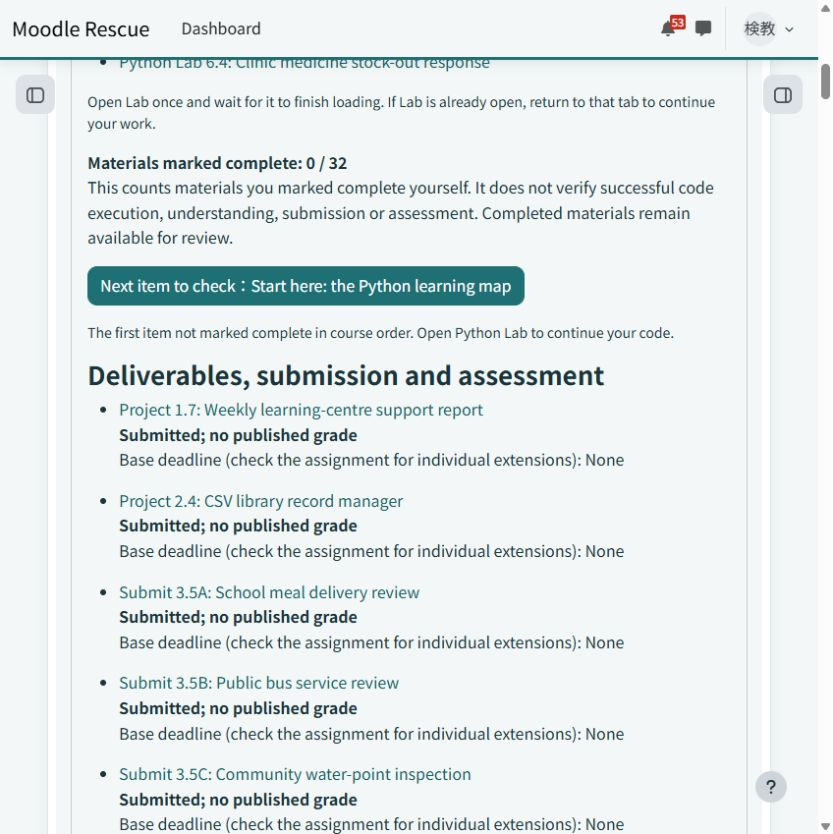
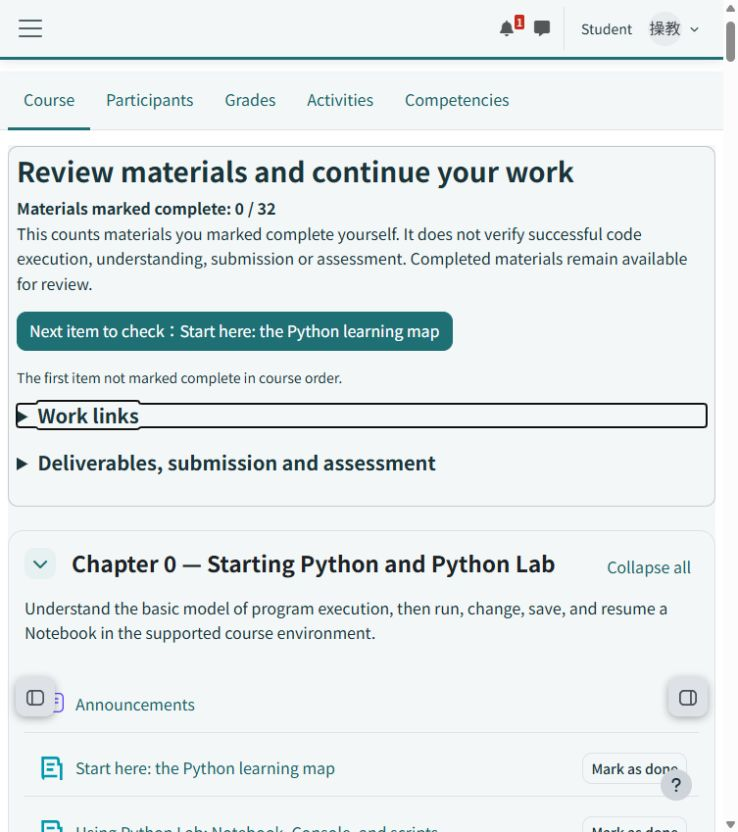
Prepare 0.1.0-alpha7 Marketplace release

diff --git a/version.php b/version.php
@@ -25,8 +25,8 @@
 defined('MOODLE_INTERNAL') || die();
 
 $plugin->component = 'format_duallearning';
-$plugin->version = 2026091900;
+$plugin->version = 2026091901;
 $plugin->requires = 2026042000;
 $plugin->dependencies = ['format_topics' => ANY_VERSION];
 $plugin->maturity = MATURITY_ALPHA;
-$plugin->release = '0.1.0-alpha6';
+$plugin->release = '0.1.0-alpha7';

diff --git a/docs/MARKETPLACE_LISTING.md b/docs/MARKETPLACE_LISTING.md
@@ -1,13 +1,13 @@
 # Moodle Marketplace listing
 
-Copy-ready metadata for the alpha6 update to the existing format_duallearning submission.
+Copy-ready metadata for the alpha7 update to the existing format_duallearning submission.
 
 ## Identity
 
 - Name: Dual Learning
 - Component: `format_duallearning`
 - Plugin type: Course format
-- Version: `0.1.0-alpha6` (`2026091900`)
+- Version: `0.1.0-alpha7` (`2026091901`)
 - Maturity: Alpha
 - Supported Moodle version: Moodle 5.2
 - Licence: GNU GPL v3 or later
@@ -25,7 +25,7 @@ For authors, the format provides an editable unit outline suited to the chosen a
 
 Actions remain visible while optional hints can be opened when needed. Authors do not need to fill in an additional design questionnaire or choose an experience level. Visibility information and reminders to save form changes remain visible.
 
-For learners, a focused overview above standard Topics sections shows the next accessible incomplete activity with completion tracking, work links, materials progress, and assignment state. Teacher-guided mode also includes accessible question forums. Materials marked complete, assignment submissions, and published grades are distinguished. Standard activity pages remain the place for detailed grades, feedback, individual extensions, and group submissions.
+For learners, a focused overview above standard Topics sections shows the next accessible incomplete activity with completion tracking, work links, materials progress, and assignment state. Progress and the next learning action appear before work links and assignments. Lists of up to five entries start expanded; longer lists can be opened when needed. Teacher-guided mode also includes accessible question forums. Materials marked complete, assignment submissions, and published grades are distinguished. Standard activity pages remain the place for detailed grades, feedback, individual extensions, and group submissions.
 
 Changing the learning mode changes the overview; it does not automatically adapt the teaching content to a different learning design. It does not rewrite activities, completion records, submissions, grades, deadlines, or restrictions.
 
@@ -46,20 +46,21 @@ The plugin stores its course-level learning-mode option. Author-created outlines
 - Source: https://github.com/ozekihiroshi/moodle-format_duallearning
 - Documentation: https://github.com/ozekihiroshi/moodle-format_duallearning#readme
 - Issues: https://github.com/ozekihiroshi/moodle-format_duallearning/issues
-- Release: https://github.com/ozekihiroshi/moodle-format_duallearning/releases/tag/v0.1.0-alpha6
+- Release: https://github.com/ozekihiroshi/moodle-format_duallearning/releases/tag/v0.1.0-alpha7
 - Branch: main
-- Tag: v0.1.0-alpha6
+- Tag: v0.1.0-alpha7
 
 ## Version release notes
 
-Fix next-activity navigation in courses containing subsections.
+Keep the next learning action visible in long courses.
 
-- Follow the displayed course order in the overview, previous/next links and activity selector, including activities inside subsections.
-- Preserve completion, visibility, availability and deletion filtering.
-- Add regression coverage for moved subsections, restricted or hidden content and flat courses.
-- Verify actual forward/backward navigation across subsections in both self-paced and teacher-guided modes.
+- Show progress and the next incomplete activity before work links and assignments.
+- Keep all accessible links in course order using keyboard-accessible disclosures. Lists of up to five entries start expanded; longer lists start collapsed.
+- Remove Python Lab-specific instructions from the generic overview in English and Japanese, including courses with non-Python external tools.
+- Add regression tests and refresh English overview screenshots.
+- Prepare a teacher authoring evaluation kit. Actual teacher usability evaluation remains pending.
 
-Moodle 5.2; Alpha maturity. No changes to course content, submissions, grades or completion records. Fixes GitHub issue #2.
+Moodle 5.2; Alpha maturity. No changes to course content, submissions, grades or completion records. Fixes GitHub issues #8 and #9.
 
 ## Screenshots
 
@@ -67,9 +68,10 @@ English screenshots now use the completed Python Foundations Self paced and
 Teacher guided courses, with separate test-unit authoring captures. See
 [files, suggested order and captions](screenshots/README.md).
 The optional Dual Learning theme supplies the visual styling; the course
-format also supports Boost. The work-link list in long courses is tracked in
-#8, and the progress screenshot is explicitly a scrolled view.
+format also supports Boost. Overview images 01 and 03 show the alpha7 layout
+using a test teacher's Student role preview. Progress figures in these captures
+are illustrative role-preview state, not evidence of a real learner's work.
 
-These files are prepared for the listing. Marketplace upload has not been
-confirmed by this documentation update. No new plugin ZIP or version is
-needed solely to replace listing screenshots.
+Upload the alpha7 ZIP to the existing submission and replace screenshot 01
+with the refreshed file. The other four primary listing images remain valid.
+Marketplace acceptance and automated review must be confirmed on the site.

diff --git a/docs/screenshots/README.md b/docs/screenshots/README.md
@@ -1,16 +1,16 @@
 # English screenshots
 
-Captured on 19 September 2026 from local Moodle 5.2 using the **optional Dual Learning theme** and the served format_duallearning 0.1.0-alpha6 source. The course format also supports Boost; these images do not represent Boost styling.
+Captured on 19 September 2026 from local Moodle 5.2 using the **optional Dual Learning theme** and the served format_duallearning source (alpha7 overview layout in images 01 and 03; alpha6 for the remaining captures). The course format also supports Boost; these images do not represent Boost styling.
 
 The learner images use the completed English Python Foundations courses, not a newly invented demonstration curriculum. Course 44 is Self paced; course 45 is Teacher guided. Interface and teaching text are English. Small Japanese initials in the navigation bar belong to synthetic test accounts. No real learner names, credentials, or private submissions are shown.
 
-Screenshots are direct browser captures. The long-course overview has not been rearranged for the images. #8 tracks its long work-link list. Images of a scrolled page are identified below. The authoring examples use a separate local test unit so that completed Python materials were not edited for this exercise.
+Screenshots are direct browser captures. Images 01 and 03 were refreshed for alpha7 after issue #8 was fixed: progress and the next action now appear before native disclosures. These two images use a test teacher’s Student role preview; their progress figures do not represent an actual learner’s work. Other images retain the earlier capture. Images of a scrolled page are identified below. The authoring examples use a separate local test unit so that completed Python materials were not edited for this exercise.
 
 | File | Suggested caption and context |
 | --- | --- |
-| `01-self-paced-progress.jpg` | Self-paced Python: the next material, manual completion and assignment state. Scrolled below the full work-link list; this is not the initial viewport. Submission states are pre-existing synthetic test records. |
+| `01-self-paced-progress.jpg` | Self-paced Python alpha7: progress and the next material before collapsible work links and assignment state. Initial viewport, test teacher Student role preview. |
 | `02-self-paced-python-units.jpg` | Completed English Python materials: lesson, practical Lab and knowledge check in learning order. Scrolled to units 1.1 and 1.2. LessonMark and the configured Lab are example activities, not dependencies of the course format. |
-| `03-teacher-guided-overview.jpg` | Teacher-guided Python overview includes Lab links and chapter question forums. Initial viewport; progress and the next item are further down in this long course (#8). |
+| `03-teacher-guided-overview.jpg` | Teacher-guided Python alpha7: progress and the next material before collapsible work links and assignment state. Initial viewport, test teacher Student role preview. |
 | `04-teacher-guided-chapter.jpg` | Teacher-guided Chapter 1 explains what to do before, during and after class. These directions are authored course content, not generated automatically by changing modes. |
 | `05-teacher-guided-python-unit.jpg` | Unit 1.1 combines preparation, the lesson, practical work, review and a knowledge check. Scrolled to the unit; authored materials preserve preparation and revision within Teacher guided mode. |
 | `06-authoring-actions.jpg` | A completed test unit provides direct links to existing content, quiz questions and settings, plus actions for adding materials. Optional hints are closed. |
@@ -23,4 +23,4 @@ Use `02`, `05`, `06`, `01`, and `08` to show the two learning arrangements, the 
 
 The old Japanese `01-self-paced-learner.png`, `02-teacher-guided-learner.png`, and `03-learning-mode-setting.png` remain as historical captures; the README now uses the English set.
 
-Marketplace upload is still a separate step. See [developer walkthrough](../DEVELOPER_AUTHORING_CHECK_2026-09-19.md) for checks, observed limitations and local environment details.
+The earlier five-image English set was saved to Marketplace and confirmed by the maintainer. The refreshed alpha7 overview image still needs replacement with the new release. See [developer walkthrough](../DEVELOPER_AUTHORING_CHECK_2026-09-19.md) for checks, observed limitations and local environment details.

diff --git a/docs/REVIEWER_GUIDE.md b/docs/REVIEWER_GUIDE.md
@@ -6,7 +6,7 @@ Dual Learning supports authoring for a teacher-guided or primarily self-paced co
 
 ## Installation and upgrade
 
-Install the release ZIP using Moodle's plugin installer. It contains one top-level duallearning directory. Version 2026091900 upgrades earlier alpha releases through the normal plugin upgrade process. No new tables, custom backup fields, external services, or build steps are introduced.
+Install the release ZIP using Moodle's plugin installer. It contains one top-level duallearning directory. Version 2026091901 upgrades earlier alpha releases through the normal plugin upgrade process. No new tables, custom backup fields, external services, or build steps are introduced.
 
 ## Authoring check
 
@@ -27,13 +27,15 @@ Use a test course for these checks. Standard Moodle visibility, grading, complet
 
 With visible materials, an assignment, and completion tracking enabled, check the next accessible incomplete activity and distinct materials/submission/grade states. Guided mode additionally lists accessible general-purpose question forums. Completed materials remain accessible under normal Moodle permissions. Changing the learning mode does not rewrite the activities or learner records.
 
+For long courses, verify the next action appears before the work links and assignments. Lists with more than five accessible entries start collapsed; shorter lists start expanded. Open and close the native disclosures using keyboard and pointer. Check that all links remain available and that courses without a Lab or with non-Python LTI tools show neutral guidance.
+
 ## Boundaries
 
 Standard activity settings and quiz question editing are not replaced. Assignment overrides and group submissions are detailed on standard activity pages; the overview shows the base deadline. Readiness checks and assisted changes of learning design are not implemented. Classroom usability improvements have not been quantified.
 
 ## Automated checks
 
-GitHub Actions checks Moodle 5.2 with PHP 8.3 and 8.4: lint, Code Checker and PHPDoc with zero warnings, plugin validation, savepoints, PHPUnit (20 tests / 100 assertions), Chrome Behat (4 scenarios / 72 steps), and reproducible ZIP generation. Tests cover draft creation, authorisation, cross-course section rejection, module permissions, and return routes after moving activities.
+GitHub Actions checks Moodle 5.2 with PHP 8.3 and 8.4: lint, Code Checker and PHPDoc with zero warnings, plugin validation, savepoints, PHPUnit, Chrome Behat (4 scenarios / 72 steps), and reproducible ZIP generation. Tests cover draft creation, authorisation, cross-course section rejection, module permissions, and return routes after moving activities.
 
 Workflow runs: https://github.com/ozekihiroshi/moodle-format_duallearning/actions
 

diff --git a/README.md b/README.md
@@ -22,7 +22,7 @@ records stay in the same course, so learners return to work they already know.
   materials and learning history for continued study and revision.
 
 Component: `format_duallearning` · Moodle 5.2 · GPL v3 or later.
-The current release, [0.1.0-alpha6](https://github.com/ozekihiroshi/moodle-format_duallearning/releases/tag/v0.1.0-alpha6),
+The current release, [0.1.0-alpha7](https://github.com/ozekihiroshi/moodle-format_duallearning/releases/tag/v0.1.0-alpha7),
 is an alpha for evaluation.
 
 ## Design direction and current scope
@@ -157,9 +157,10 @@ the separate developer-test unit, not changes to the completed Python courses.
 ### Progress and submission are separate
 
 The overview distinguishes manually marked materials from submission and
-published-grade state. This view is scrolled below the full work-link list;
-[issue #8](https://github.com/ozekihiroshi/moodle-format_duallearning/issues/8)
-tracks making the next learning action easier to reach in long courses.
+published-grade state. Progress and the next learning action appear first;
+long work-link and assignment lists open when needed. Lists with up to five
+entries start expanded. This alpha7 image uses a test teacher’s Student role
+preview, not an actual learner’s completion record.
 
 ![Self-paced progress and assignment state](docs/screenshots/01-self-paced-progress.jpg)
 

diff --git a/CHANGELOG.md b/CHANGELOG.md
@@ -1,5 +1,13 @@
 # Change log
 
+## 0.1.0-alpha7 - 2026-09-19
+
+- Keep progress and the next learning action above work links and assignment lists (issue #8).
+- Use keyboard-accessible disclosures for lists; up to five entries start expanded and longer lists start collapsed. All accessible links remain available in course order.
+- Remove Python Lab-specific guidance from the generic overview in English and Japanese (issue #9).
+- Add regression coverage for both modes, list lengths, hidden activities and non-Python external tools.
+- Refresh English overview screenshots and prepare a teacher evaluation kit; actual teacher evaluation remains pending (issue #5).
+
 ## 0.1.0-alpha6 - 2026-09-19
 
 - Fix previous/next links and the activity selector across subsection boundaries, completing issue #2.
